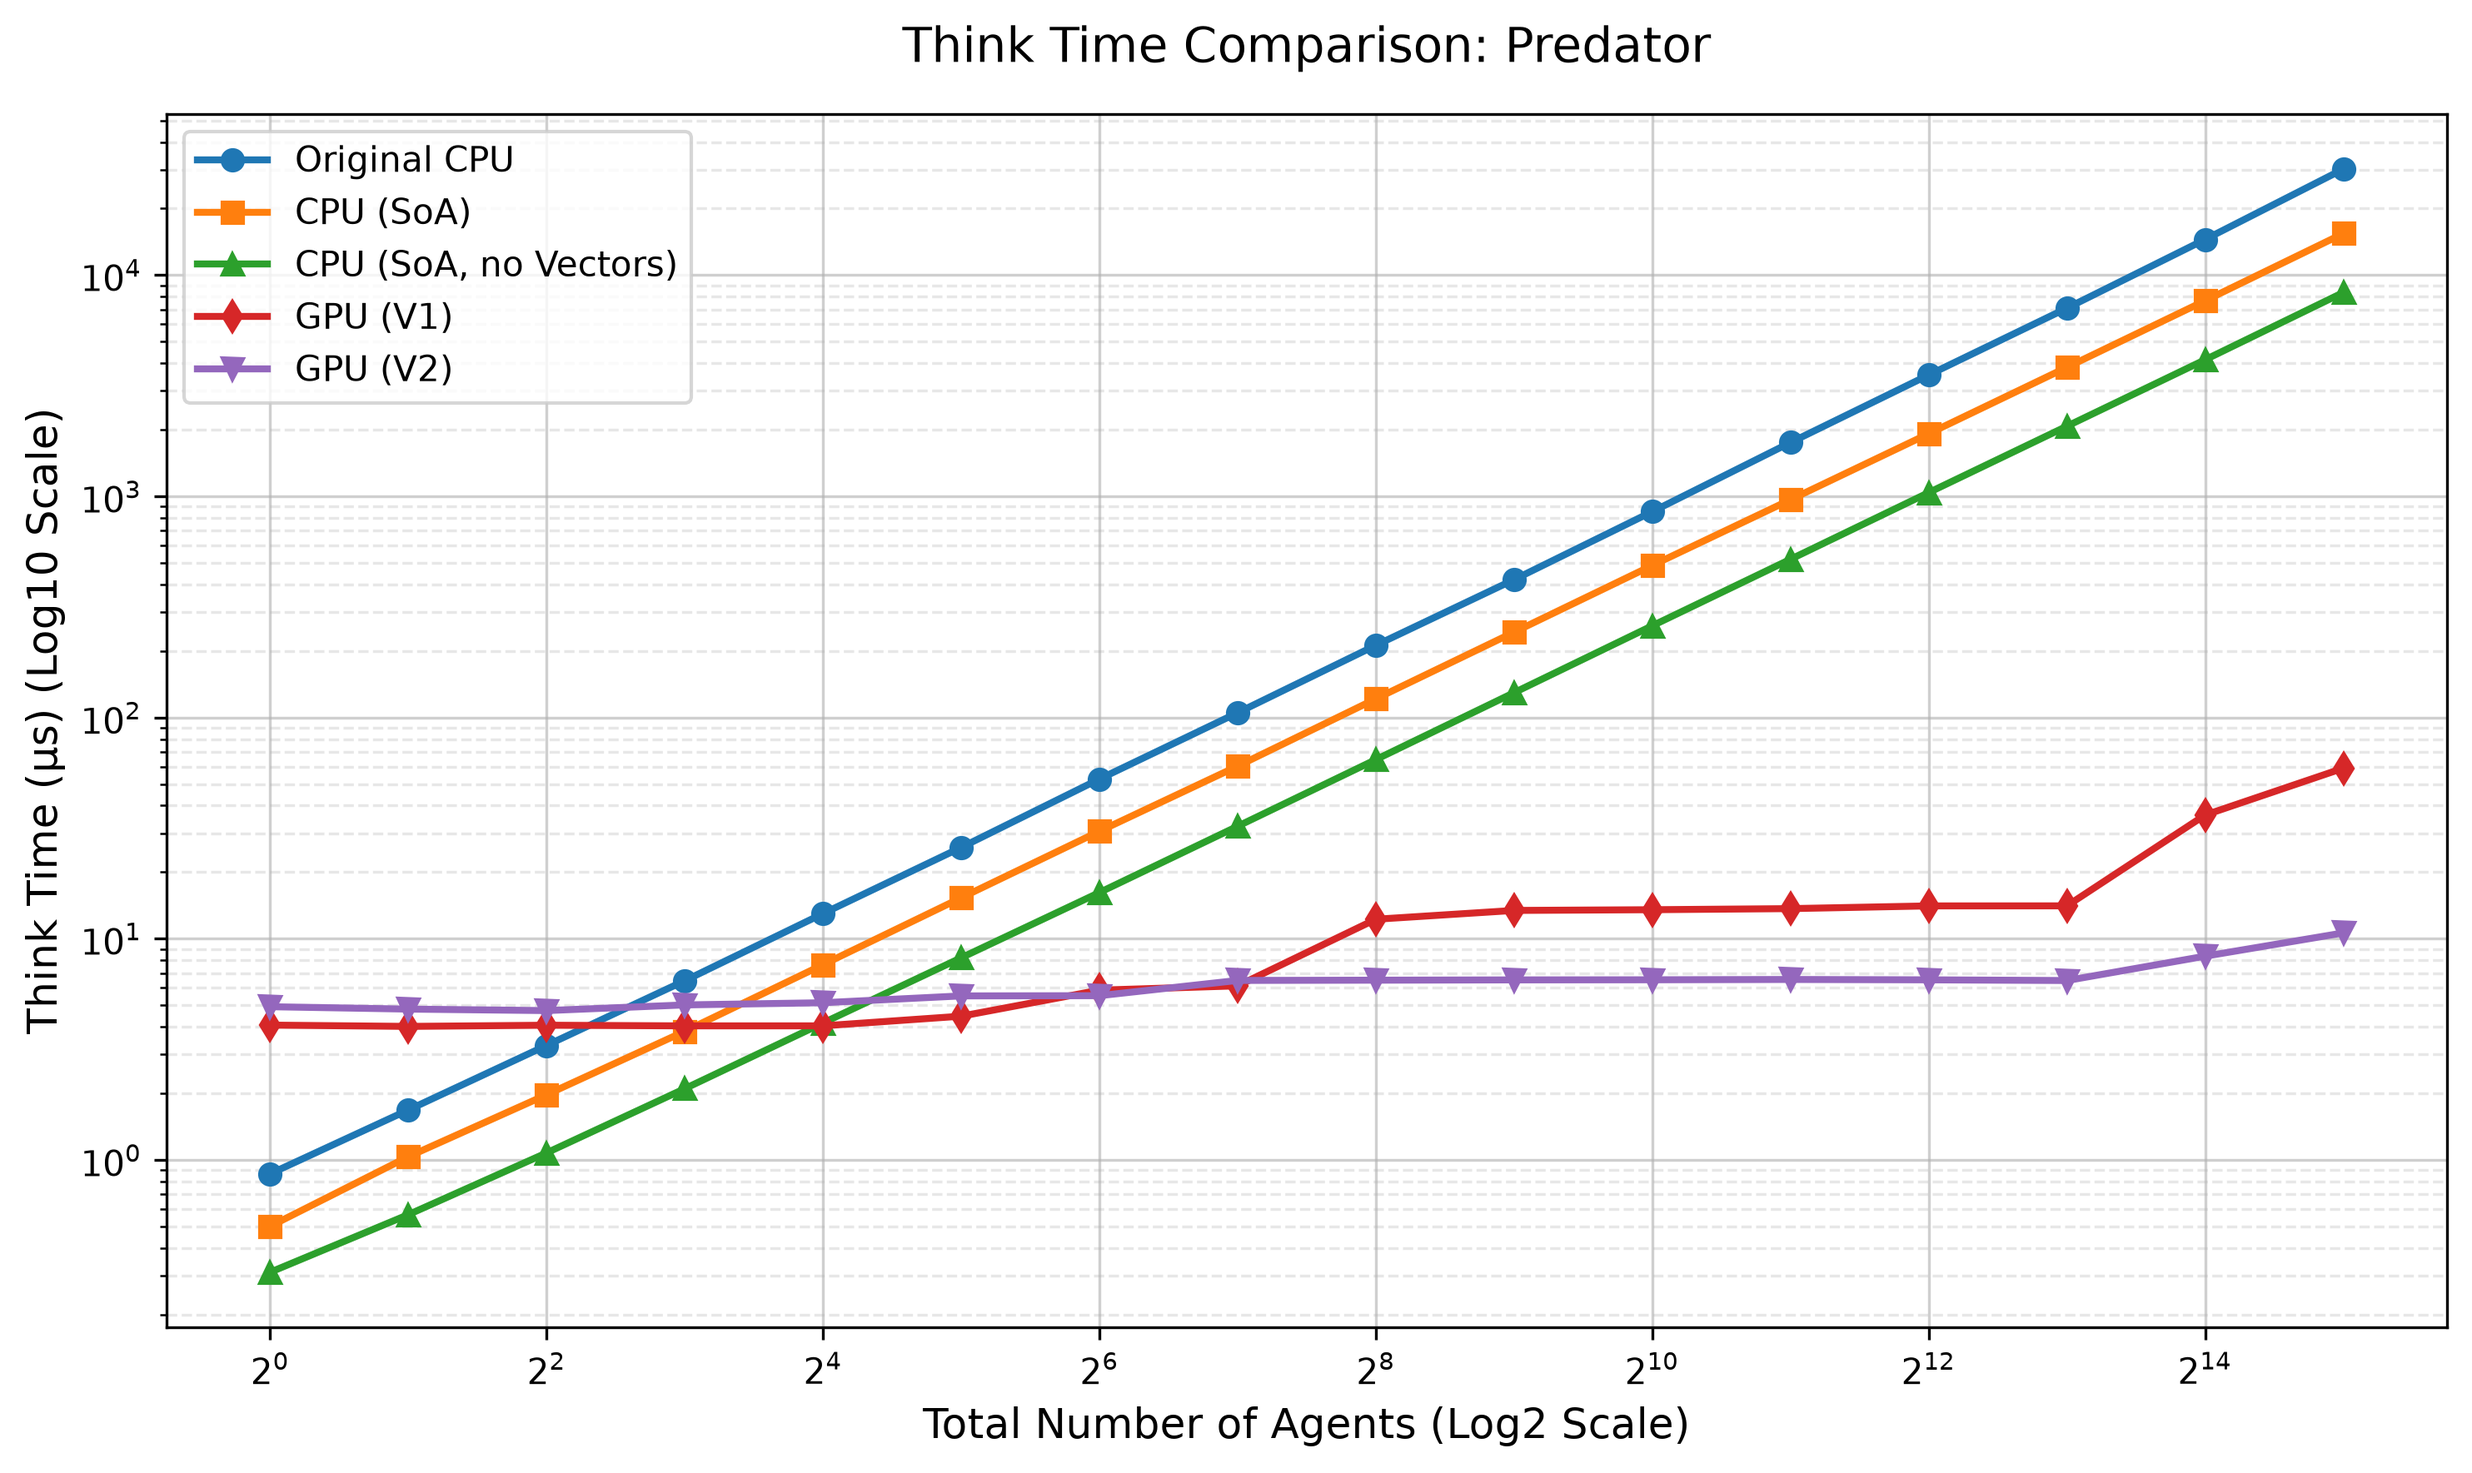
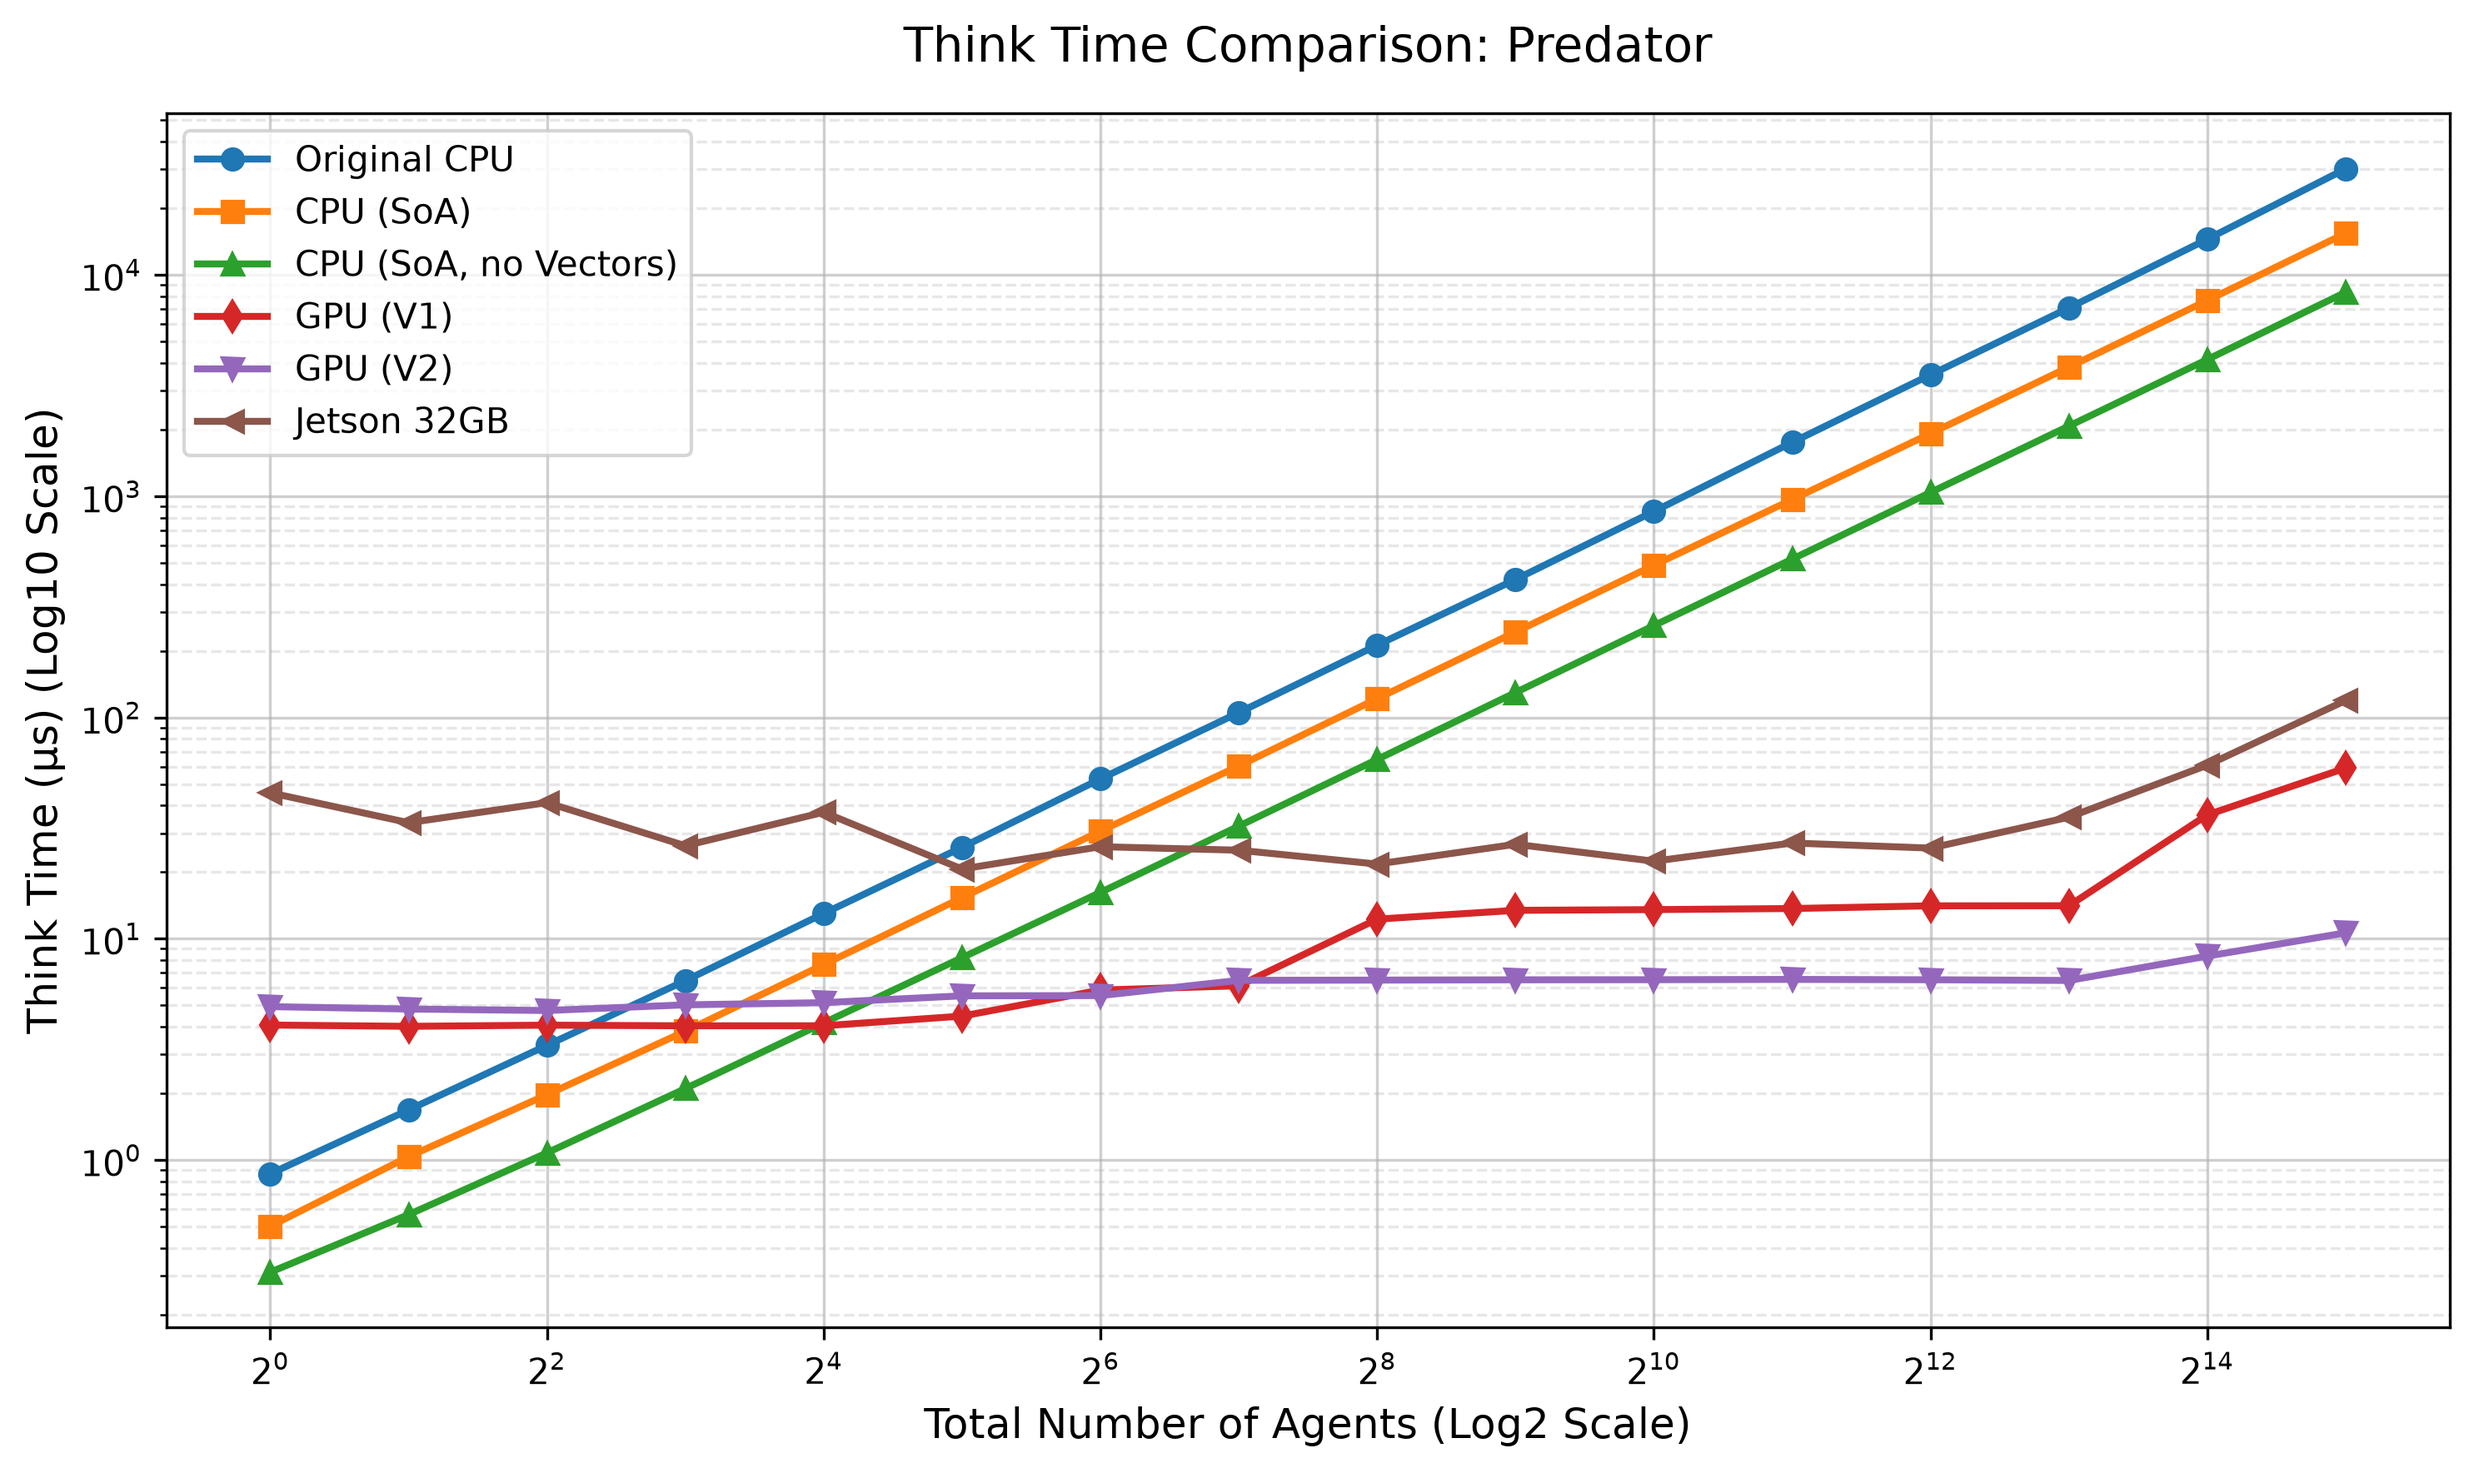
Updated profiling

diff --git a/profiling/plot_graphs.py b/profiling/plot_graphs.py
@@ -14,11 +14,12 @@ COLUMNS = {"Buckets","Observation","Think","Move","Cleanup","Total"}
 # The format is: {"Label for Legend": "filename.csv"}
 # This example compares all versions for the "Prey Only" scenario
 FILES_TO_PLOT = {
-    "Original CPU": "data/profiling_results_cpu_predatori.csv",
-    "CPU (SoA)": "data/profiling_results_gpuready_cpu_predatori.csv",
-    "CPU (SoA, no Vectors)": "data/profiling_results_cpu_soa_predatori.csv",
-    "GPU (V1)": "data/profiling_results_gpuV1_predatori.csv",
-    "GPU (V2)": "data/profiling_results_gpuV2_predatori.csv"
+    "Original CPU": "data/profiling_results_cpu_prede_predatori.csv",
+    "CPU (SoA)": "data/profiling_results_gpuready_cpu_prede_predatori.csv",
+    "CPU (SoA, no Vectors)": "data/profiling_results_cpu_soa_prede_predatori.csv",
+    "GPU (V1)": "data/profiling_results_gpuV1_prede_predatori.csv",
+    "GPU (V2)": "data/profiling_results_gpuV2_prede_predatori.csv",
+    "Jetson 32GB": "data/profiling_results_jetson32_prede_predatori.csv"
 }
 
 # ==========================================
@@ -82,7 +83,7 @@ def plot_column_across_files(files_dict, target_column, title, save_filename):
 if __name__ == "__main__":
     for target_column in COLUMNS:
         # Set the title of the graph
-        GRAPH_TITLE = f"{target_column} Time Comparison: Predator"
-        SAVE_FILENAME = f"graphs/{target_column}/predator.png"
+        GRAPH_TITLE = f"{target_column} Time Comparison: Prey and Predator"
+        SAVE_FILENAME = f"graphs/{target_column}/prey_predator.png"
         
         plot_column_across_files(FILES_TO_PLOT, target_column, GRAPH_TITLE, SAVE_FILENAME)
